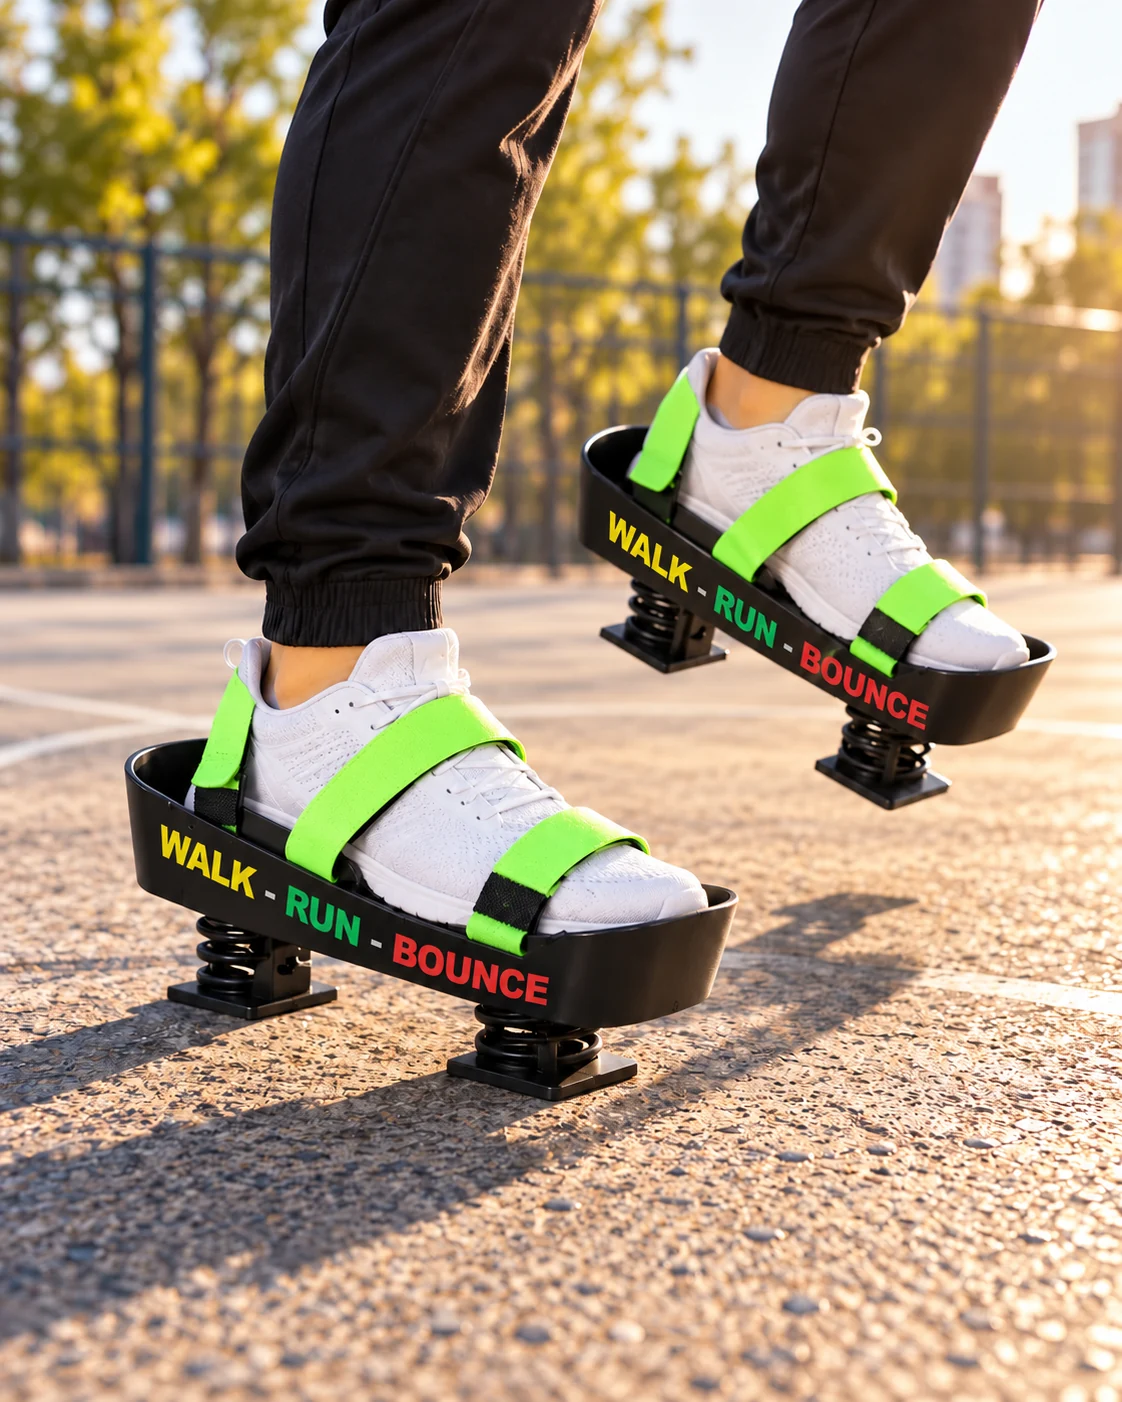
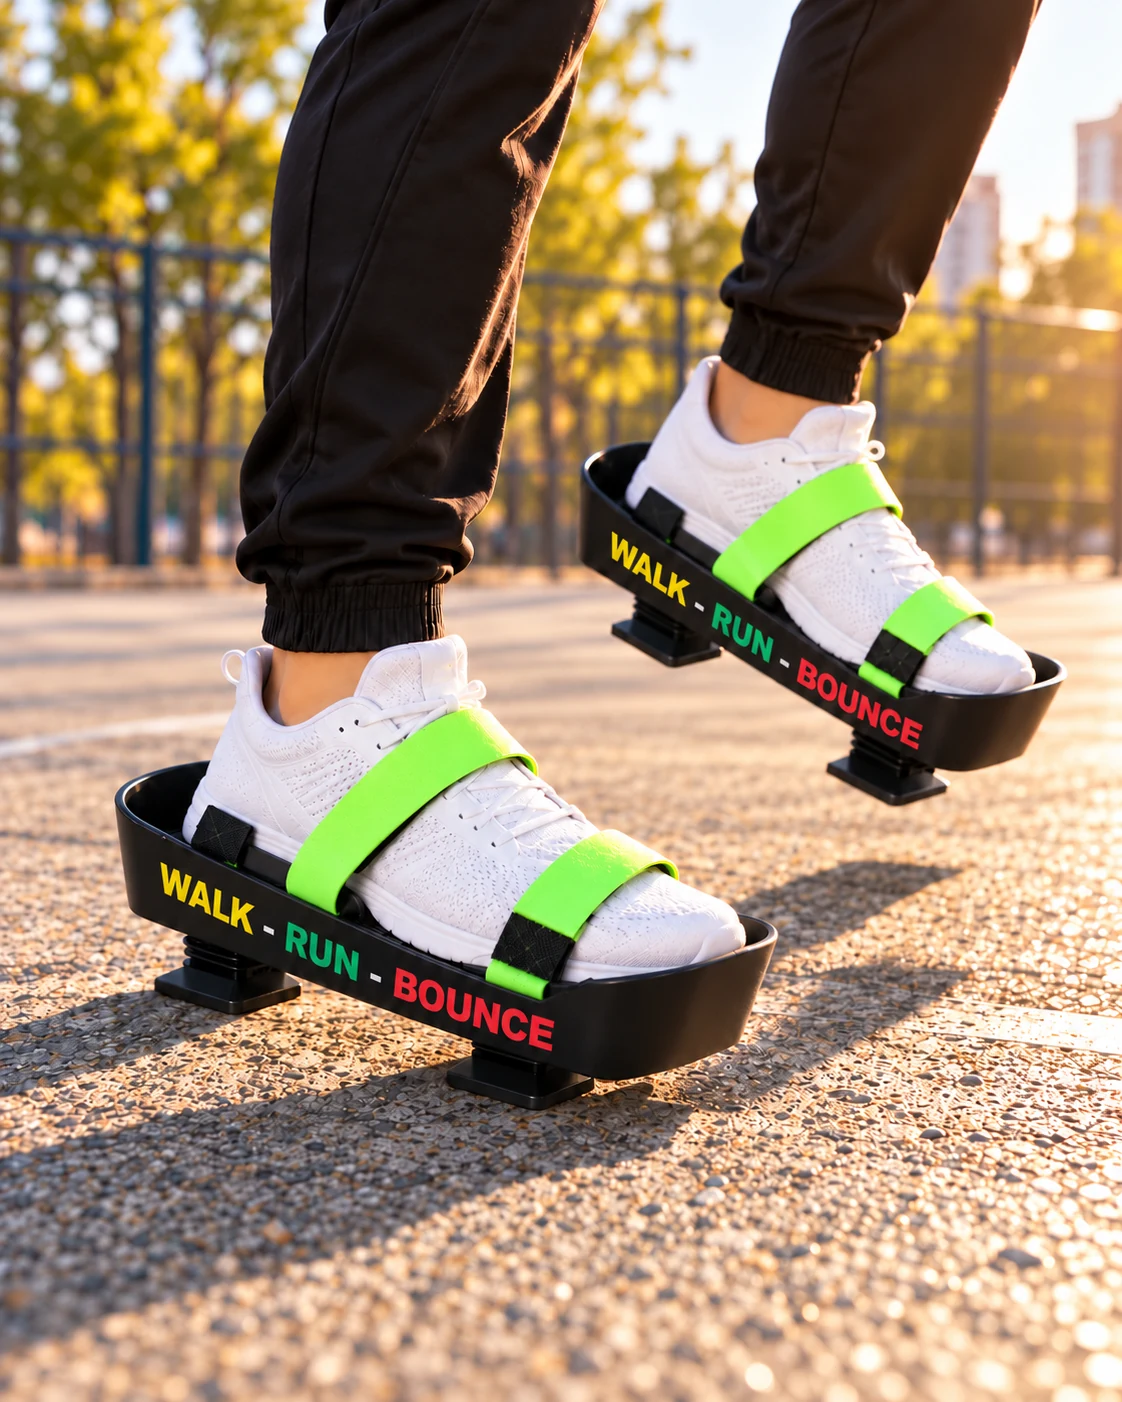
Align prototype visualisations with compact real supports

diff --git a/IMAGE-PROMPTS.md b/IMAGE-PROMPTS.md
@@ -1,6 +1,6 @@
 # Generated imagery
 
-The site uses six revised visualisations made with the built-in image generation tool. The bounce attachment visuals were based on the original `detail.jpg` prototype photo. The walk/run visual was based on the original `walk-run-reference.jpg` photo from the current site.
+The site uses six revised visualisations made with the built-in image generation tool. The bounce attachment visuals were based on the original `detail.jpg` prototype photo. Five bounce images were revised to show the low, compact supports visible in that photo instead of tall exposed spring towers. The walk/run visual was based on the original `walk-run-reference.jpg` photo from the current site.
 
 | Asset | Final image direction |
 | --- | --- |
@@ -11,4 +11,4 @@ The site uses six revised visualisations made with the built-in image generation
 | `side-visual-lettered.webp` | Side-profile studio visualisation of the attachment on a charcoal plinth, with WALK RUN BOUNCE on the outer rail. |
 | `walk-run-studio.webp` | Studio treatment of the real walk/run prototype photo, keeping the black fabric uppers, wide black instep straps, compact under-shoe supports, and yellow WALK / green RUN side lettering. |
 
-The original photos are included as `detail.jpg` and `walk-run-reference.jpg`. Generated scenes remain visualisations and should be reviewed against the physical prototypes before public use.
+The original photos are included as `detail.jpg` and `walk-run-reference.jpg`. The reference photos do not fully expose the internal spring mechanisms, so generated scenes remain visualisations rather than engineering-accurate records. Verify the under-platform construction against the physical prototypes before using the images as product specifications.
